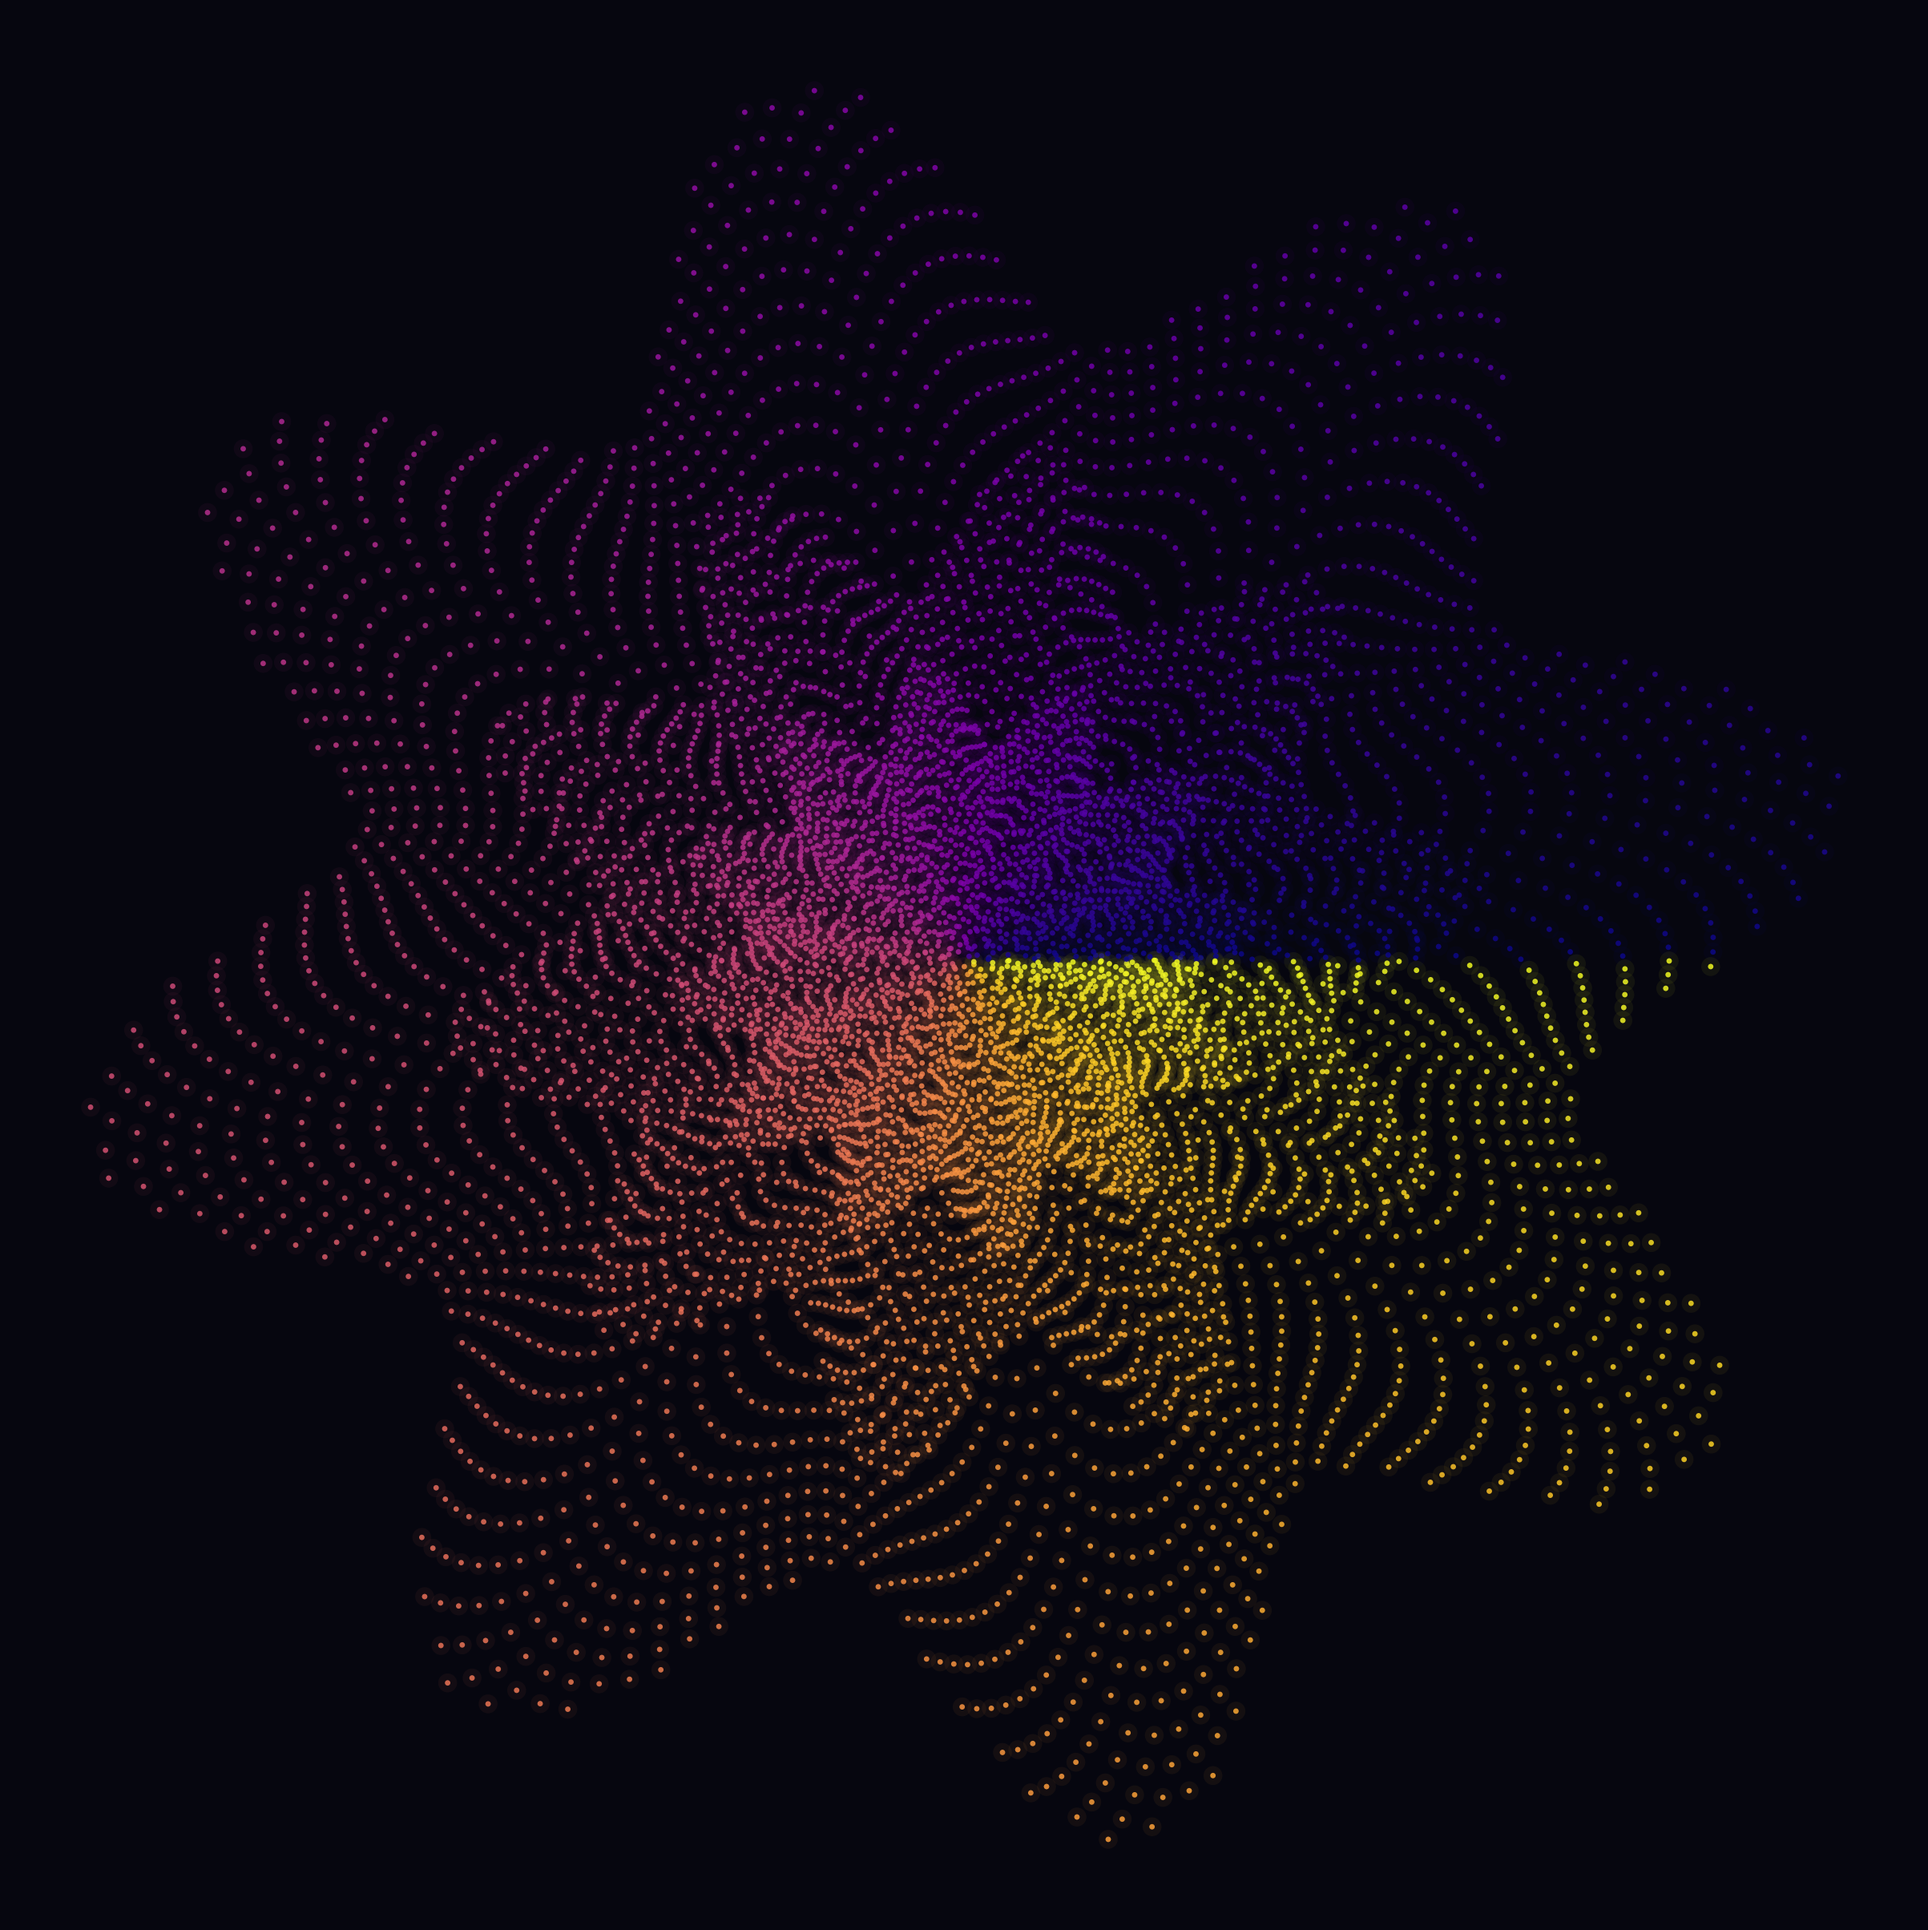
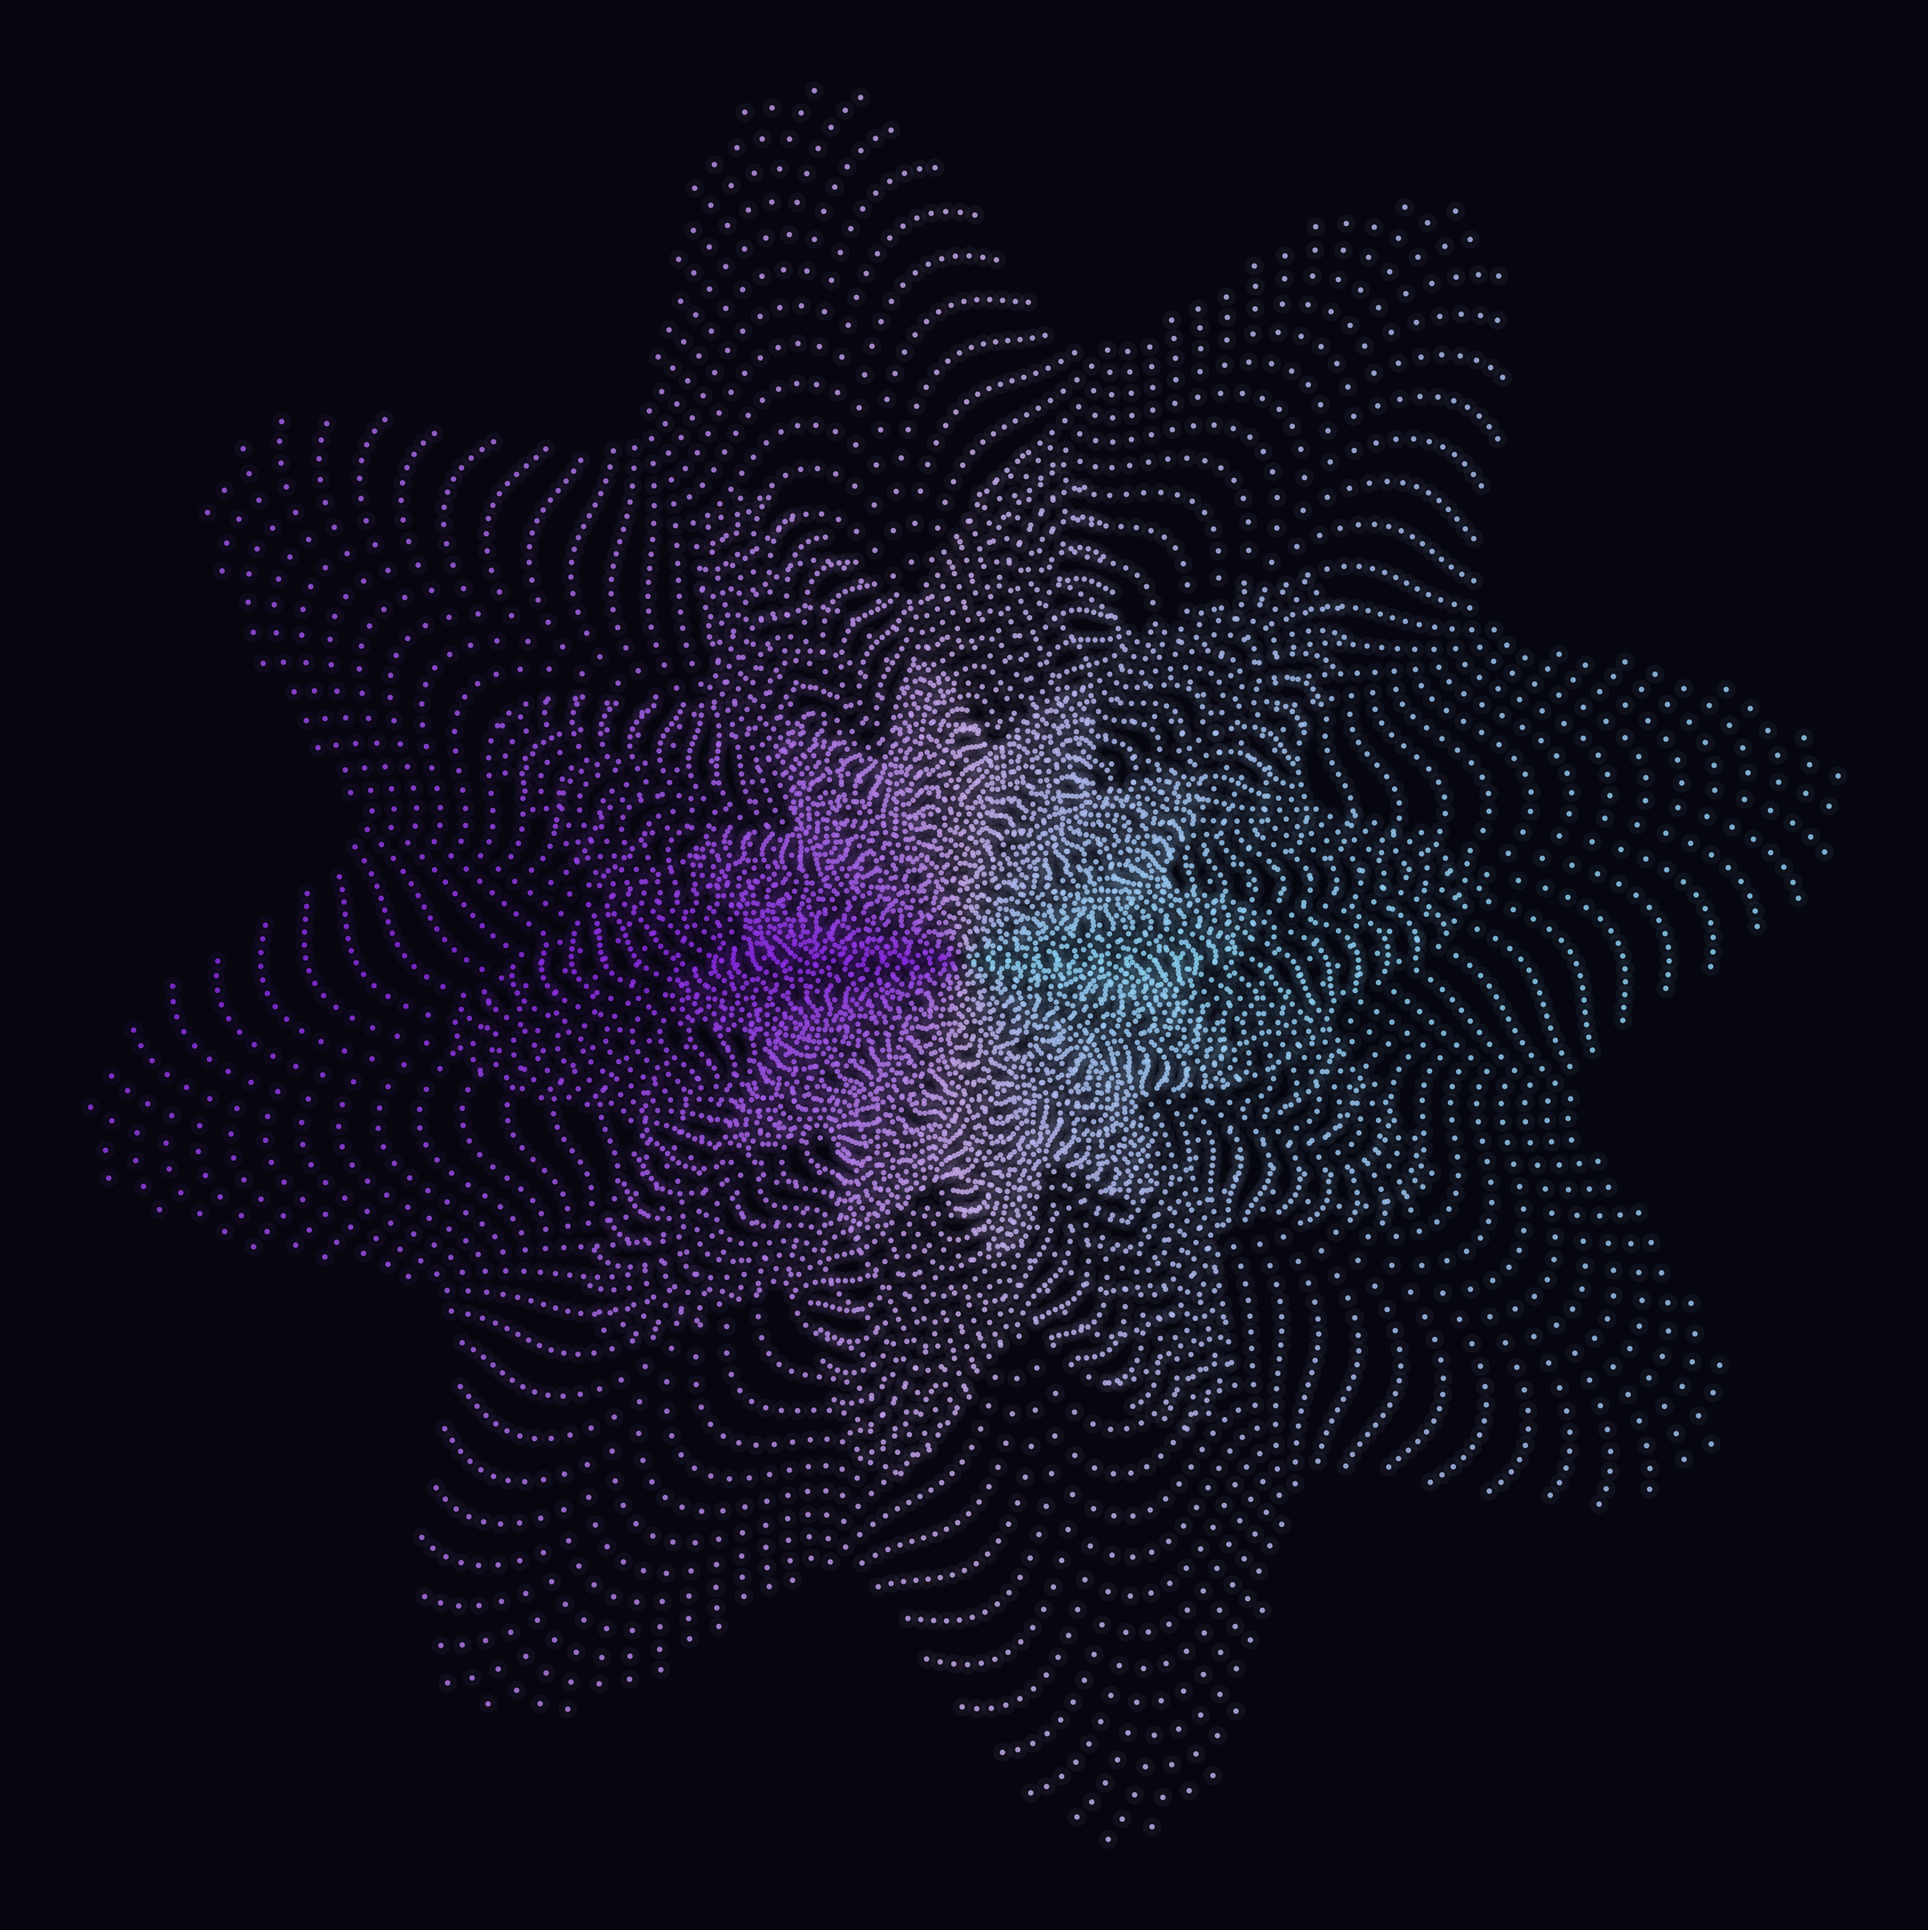
Update fibonacci-bloom: violet/baby blue palette + breathing animation
Switch colormap from plasma (blue/yellow) to a custom cyclic gradient
(baby blue → lavender → violet → lavender → baby blue). Add a 48-frame
breathing GIF where all spiral layers pulse ±8% in scale on a sine wave.

Changed region(s): [[0.2494, 0.218, 0.7793, 0.7787]]

diff --git a/fibonacci-bloom/bloom.py b/fibonacci-bloom/bloom.py
@@ -2,17 +2,26 @@ import numpy as np
 import matplotlib
 matplotlib.use('Agg')
 import matplotlib.pyplot as plt
+import matplotlib.colors as mcolors
+from matplotlib.animation import FuncAnimation
 from pathlib import Path
 
 # ── Parameters (tweak freely) ────────────────────────────────────
-N_POINTS   = 3000      # total points per layer
-WAVE_AMP   = 0.18      # organic sine distortion  (0 = perfect sunflower)
-WAVE_FREQ  = 8         # distortion frequency
-POINT_SIZE = 6         # scatter dot size (core)
-COLORMAP   = 'plasma'  # plasma · viridis · magma · twilight · inferno
-BG_COLOR   = '#06060f'
-ALPHA      = 0.85
-N_LAYERS   = 3         # overlapping spiral layers
+N_POINTS    = 3000     # total points per layer
+WAVE_AMP    = 0.18     # organic sine distortion  (0 = perfect sunflower)
+WAVE_FREQ   = 8        # distortion frequency
+POINT_SIZE  = 6        # scatter dot size (core)
+BG_COLOR    = '#06060f'
+ALPHA       = 0.85
+N_LAYERS    = 3        # overlapping spiral layers
+N_FRAMES    = 48       # animation frames (2 s loop at 24 fps)
+BREATHE_AMP = 0.08     # ±8% scale pulse
+
+# Cyclic gradient: baby blue → lavender → violet → lavender → baby blue
+BLOOM_CMAP = mcolors.LinearSegmentedColormap.from_list(
+    'violet_babyblue',
+    ['#89CFF0', '#C3A8E6', '#8A2BE2', '#C3A8E6', '#89CFF0'],
+)
 
 PHI = (1 + np.sqrt(5)) / 2   # golden ratio
 OUT = Path(__file__).parent
@@ -39,30 +48,27 @@ ax.set_facecolor(BG_COLOR)
 ax.set_aspect('equal')
 ax.axis('off')
 
-cmap = plt.get_cmap(COLORMAP)
-
 scales = [1.0, 0.62, 0.38]          # each layer a fraction of the outer
 phases = [0, np.pi / PHI, np.pi]    # staggered phase offsets
 
-for layer in range(N_LAYERS):
-    n   = N_POINTS - layer * 300
-    wa  = WAVE_AMP  * (1 - layer * 0.06)
-    wf  = WAVE_FREQ + layer * 2
 
-    x, y, t, theta = make_bloom(n, wa, wf,
-                                 scale=scales[layer],
-                                 phase=phases[layer])
+def draw_layers(ax, breath=1.0):
+    for layer in range(N_LAYERS):
+        n   = N_POINTS - layer * 300
+        wa  = WAVE_AMP  * (1 - layer * 0.06)
+        wf  = WAVE_FREQ + layer * 2
+        x, y, t, theta = make_bloom(n, wa, wf,
+                                     scale=scales[layer] * breath,
+                                     phase=phases[layer])
+        color_t = (theta / (2 * np.pi)) % 1.0
+        colors  = BLOOM_CMAP(color_t)
+        ax.scatter(x, y, c=colors, s=POINT_SIZE * 12,
+                   alpha=0.06, linewidths=0, zorder=layer * 2)
+        ax.scatter(x, y, c=colors, s=POINT_SIZE,
+                   alpha=ALPHA, linewidths=0, zorder=layer * 2 + 1)
 
-    # colour by angle so spiral arms get distinct hues
-    color_t = (theta / (2 * np.pi)) % 1.0
-    colors  = cmap(color_t)
 
-    # glow halo pass
-    ax.scatter(x, y, c=colors, s=POINT_SIZE * 12,
-               alpha=0.06, linewidths=0, zorder=layer * 2)
-    # bright core pass
-    ax.scatter(x, y, c=colors, s=POINT_SIZE,
-               alpha=ALPHA, linewidths=0, zorder=layer * 2 + 1)
+draw_layers(ax)
 
 plt.tight_layout(pad=0)
 png = OUT / 'fibonacci_bloom.png'
@@ -70,6 +76,37 @@ fig.savefig(png, dpi=200, bbox_inches='tight',
             facecolor=BG_COLOR, pad_inches=0.02)
 print(f'Saved colour PNG  → {png}')
 plt.close(fig)
+
+
+# ── Breathing animation GIF ───────────────────────────────────────
+# Pre-compute a fixed axis extent so the frame never jumps while breathing
+_max_r = np.sqrt(N_POINTS) * (1 + WAVE_AMP) * scales[0] * (1 + BREATHE_AMP) * 1.05
+AXIS_LIM = _max_r
+
+fig_a, ax_a = plt.subplots(figsize=(8, 8), facecolor=BG_COLOR)
+ax_a.set_facecolor(BG_COLOR)
+ax_a.set_aspect('equal')
+ax_a.axis('off')
+ax_a.set_xlim(-AXIS_LIM, AXIS_LIM)
+ax_a.set_ylim(-AXIS_LIM, AXIS_LIM)
+
+
+def update(frame):
+    ax_a.cla()
+    ax_a.set_facecolor(BG_COLOR)
+    ax_a.set_aspect('equal')
+    ax_a.axis('off')
+    ax_a.set_xlim(-AXIS_LIM, AXIS_LIM)
+    ax_a.set_ylim(-AXIS_LIM, AXIS_LIM)
+    breath = 1.0 + BREATHE_AMP * np.sin(frame * 2 * np.pi / N_FRAMES)
+    draw_layers(ax_a, breath)
+
+
+anim = FuncAnimation(fig_a, update, frames=N_FRAMES, interval=1000 // 24)
+gif = OUT / 'fibonacci_bloom_breathe.gif'
+anim.save(gif, writer='pillow', fps=24, dpi=100)
+print(f'Saved breathing GIF → {gif}')
+plt.close(fig_a)
 
 
 # ── Plotter / line-art version (black on white) ───────────────────
